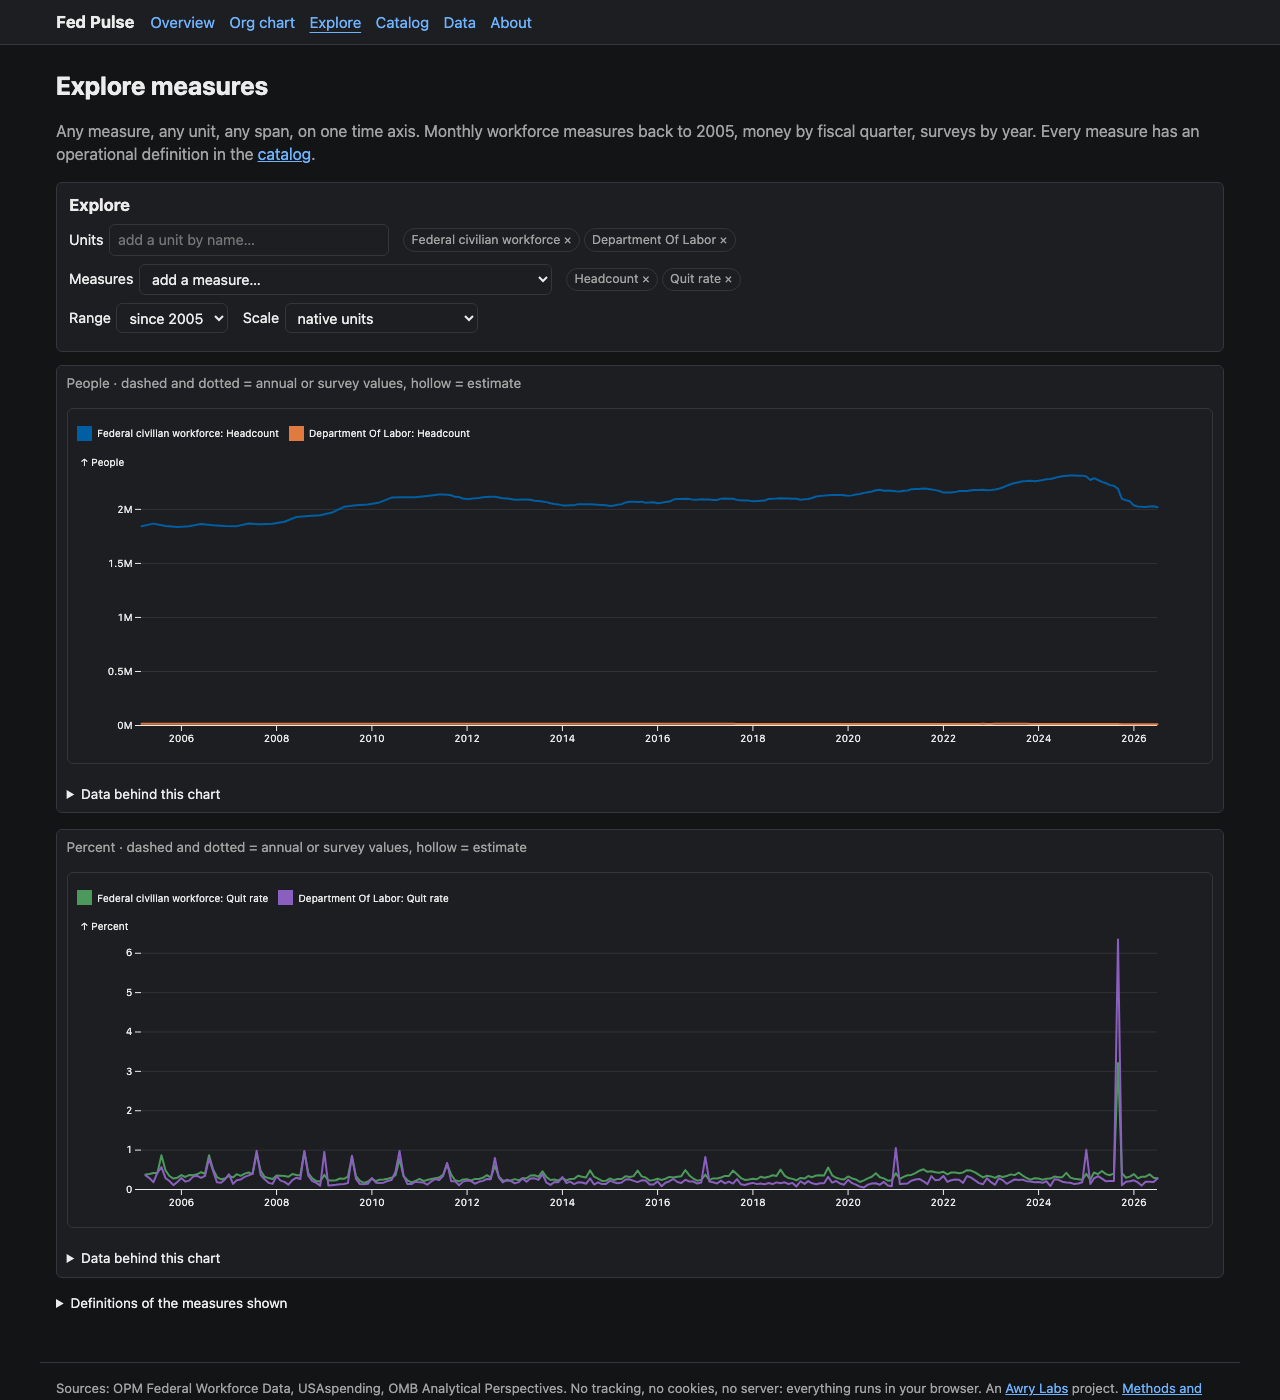
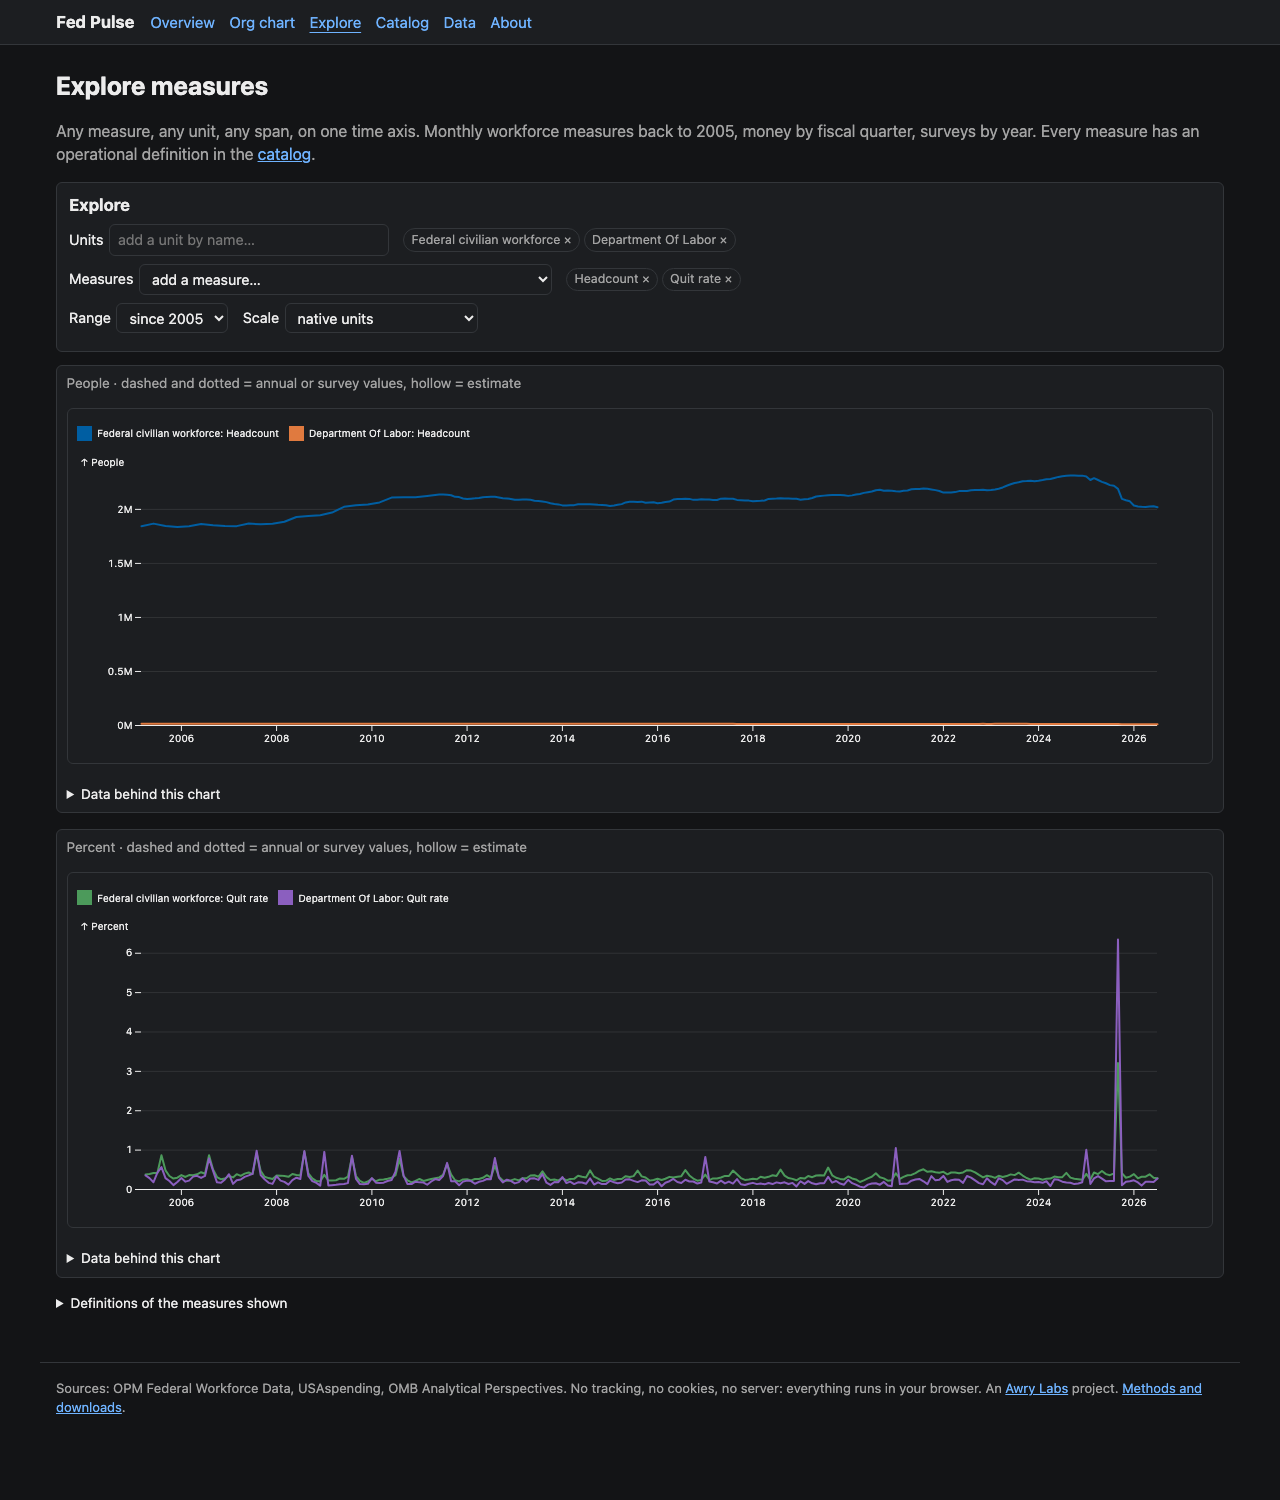
Site assembly ships the measures parquet same-origin

diff --git a/pipeline/site.py b/pipeline/site.py
@@ -36,6 +36,11 @@ def assemble() -> None:
             if src.exists():
                 shutil.copy(src, facts / entry["file"])
                 entry["site_url"] = f"data/facts/{entry['file']}"
+    # GitHub Release assets send no CORS header, so the browser reads the measures table from the site's own origin.
+    from pipeline.measures.build import OUT as MEASURES_PARQUET
+    if MEASURES_PARQUET.exists():
+        shutil.copy(MEASURES_PARQUET, data / "measures.parquet")
+        manifest.setdefault("measures", {})["site_url"] = "data/measures.parquet"
     (data / "manifest.json").write_text(json.dumps(manifest, indent=1, sort_keys=True))
     (SITE_OUT / ".nojekyll").write_text("")
     size = sum(p.stat().st_size for p in SITE_OUT.rglob("*") if p.is_file())
